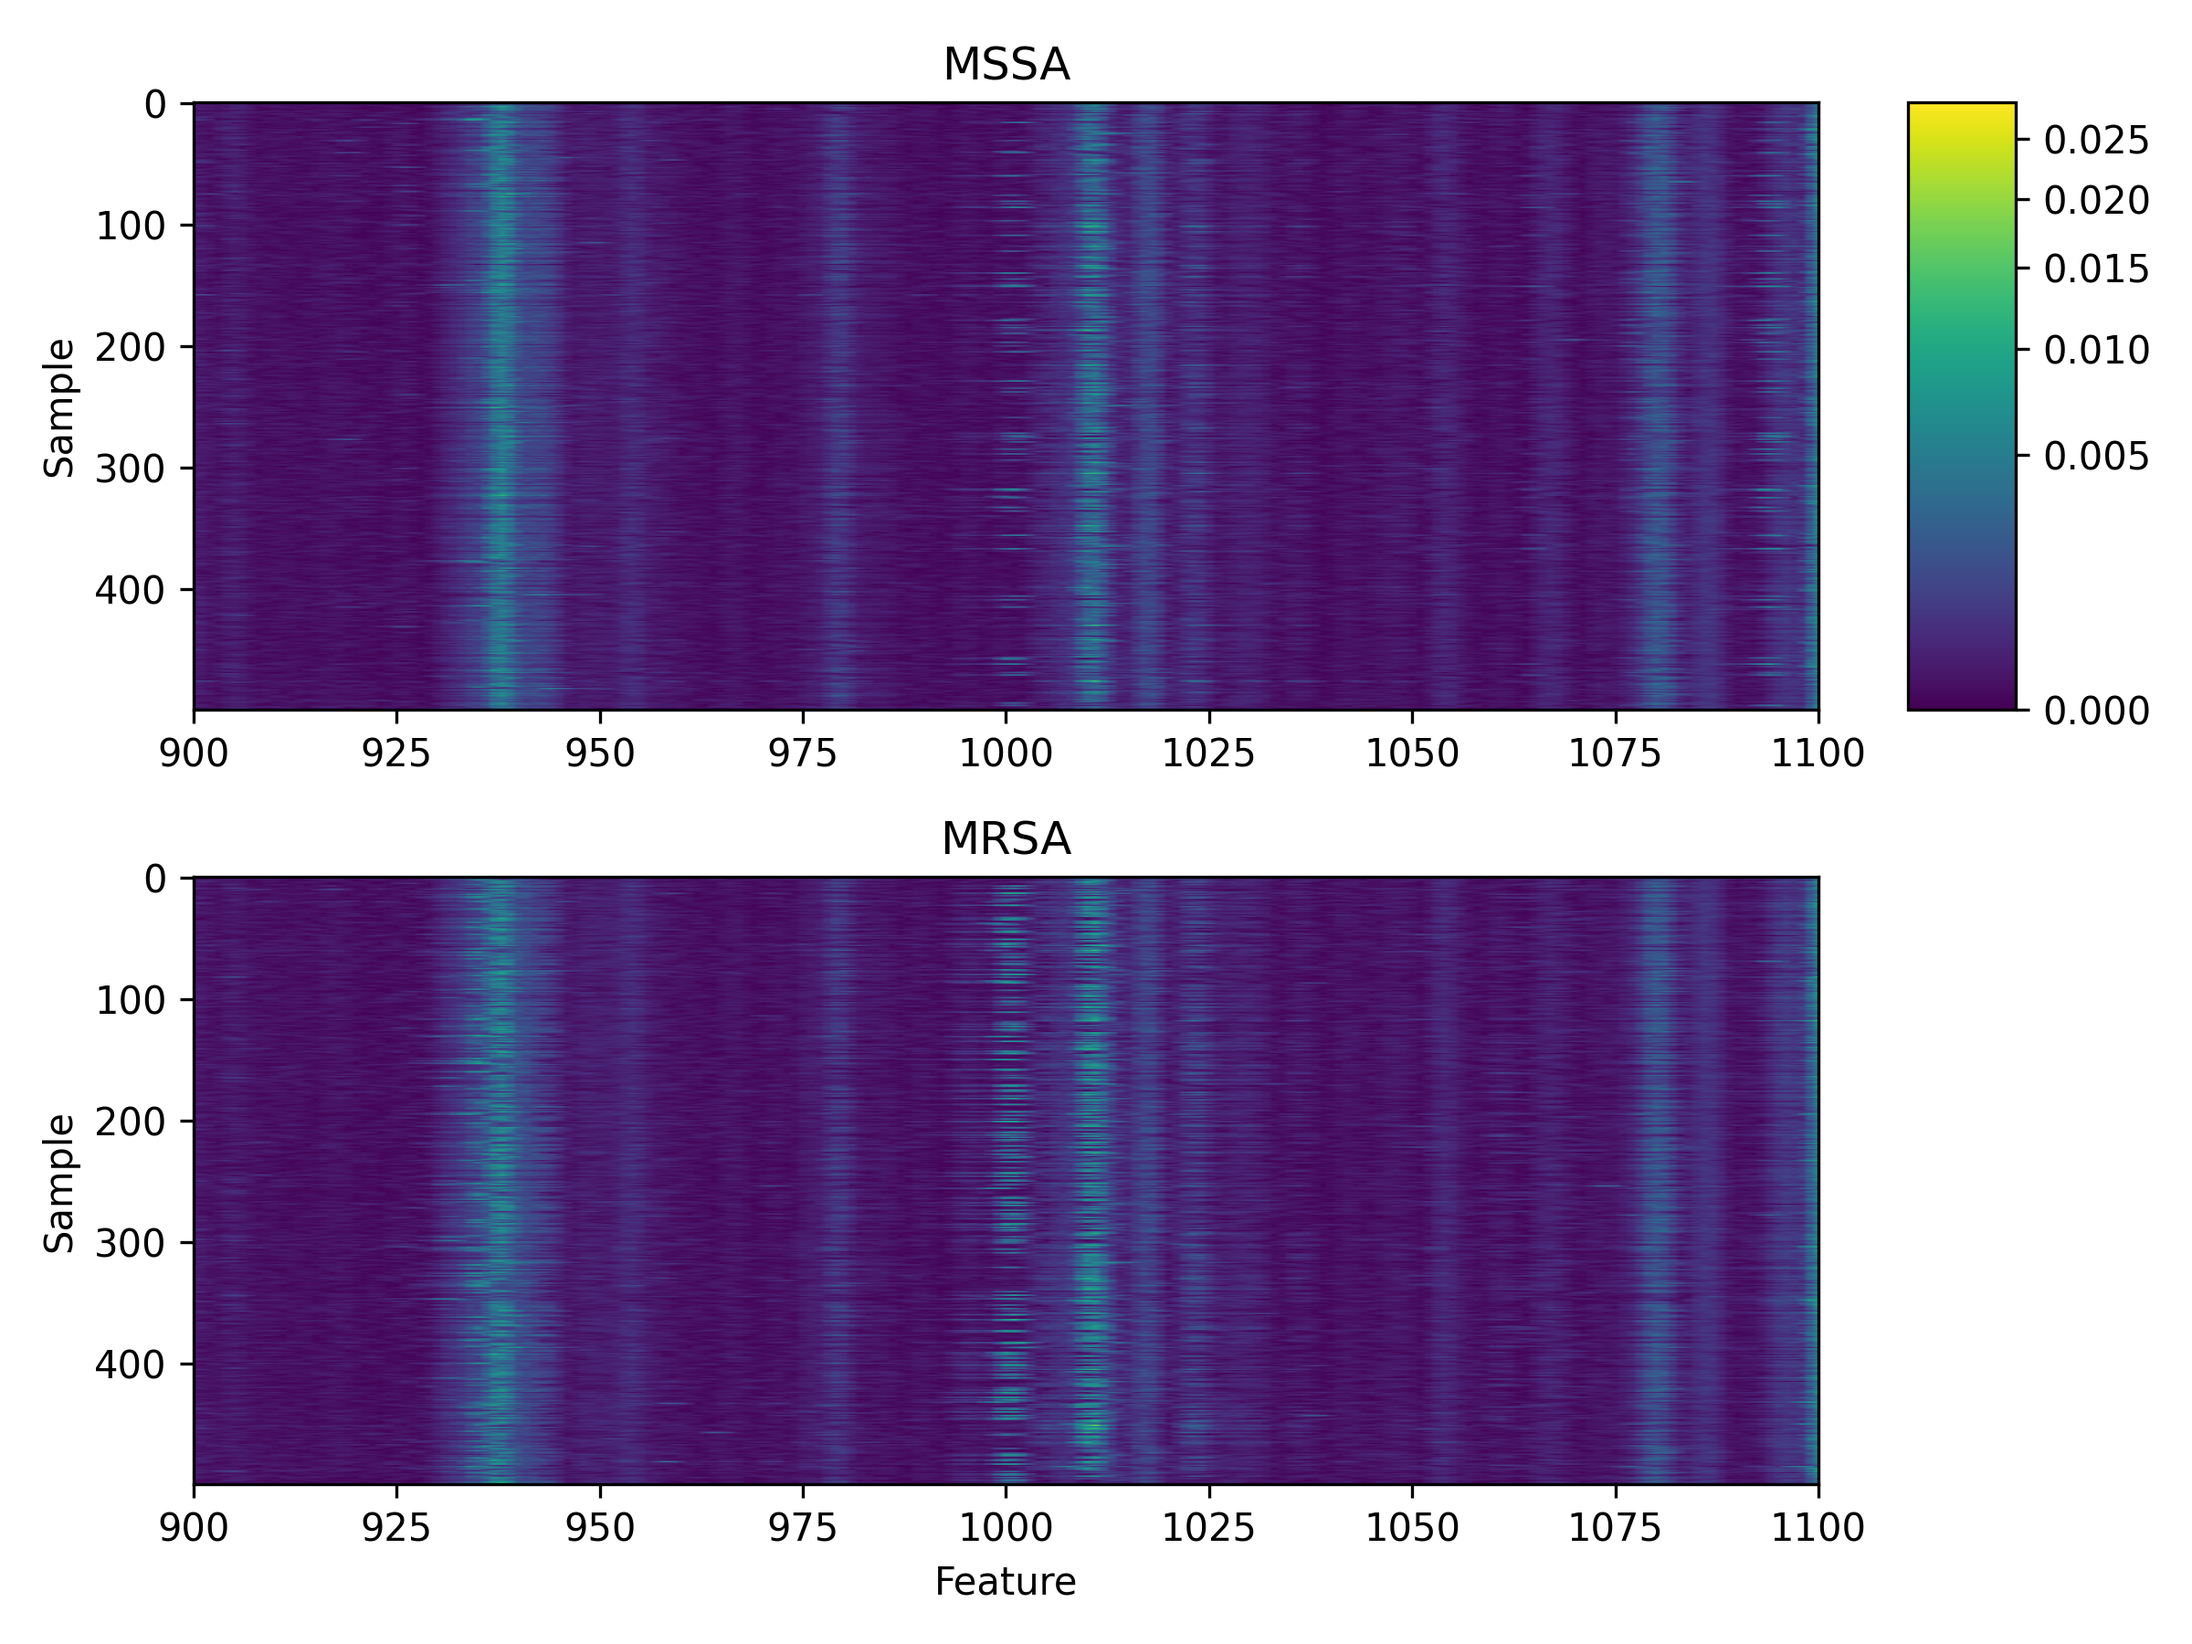
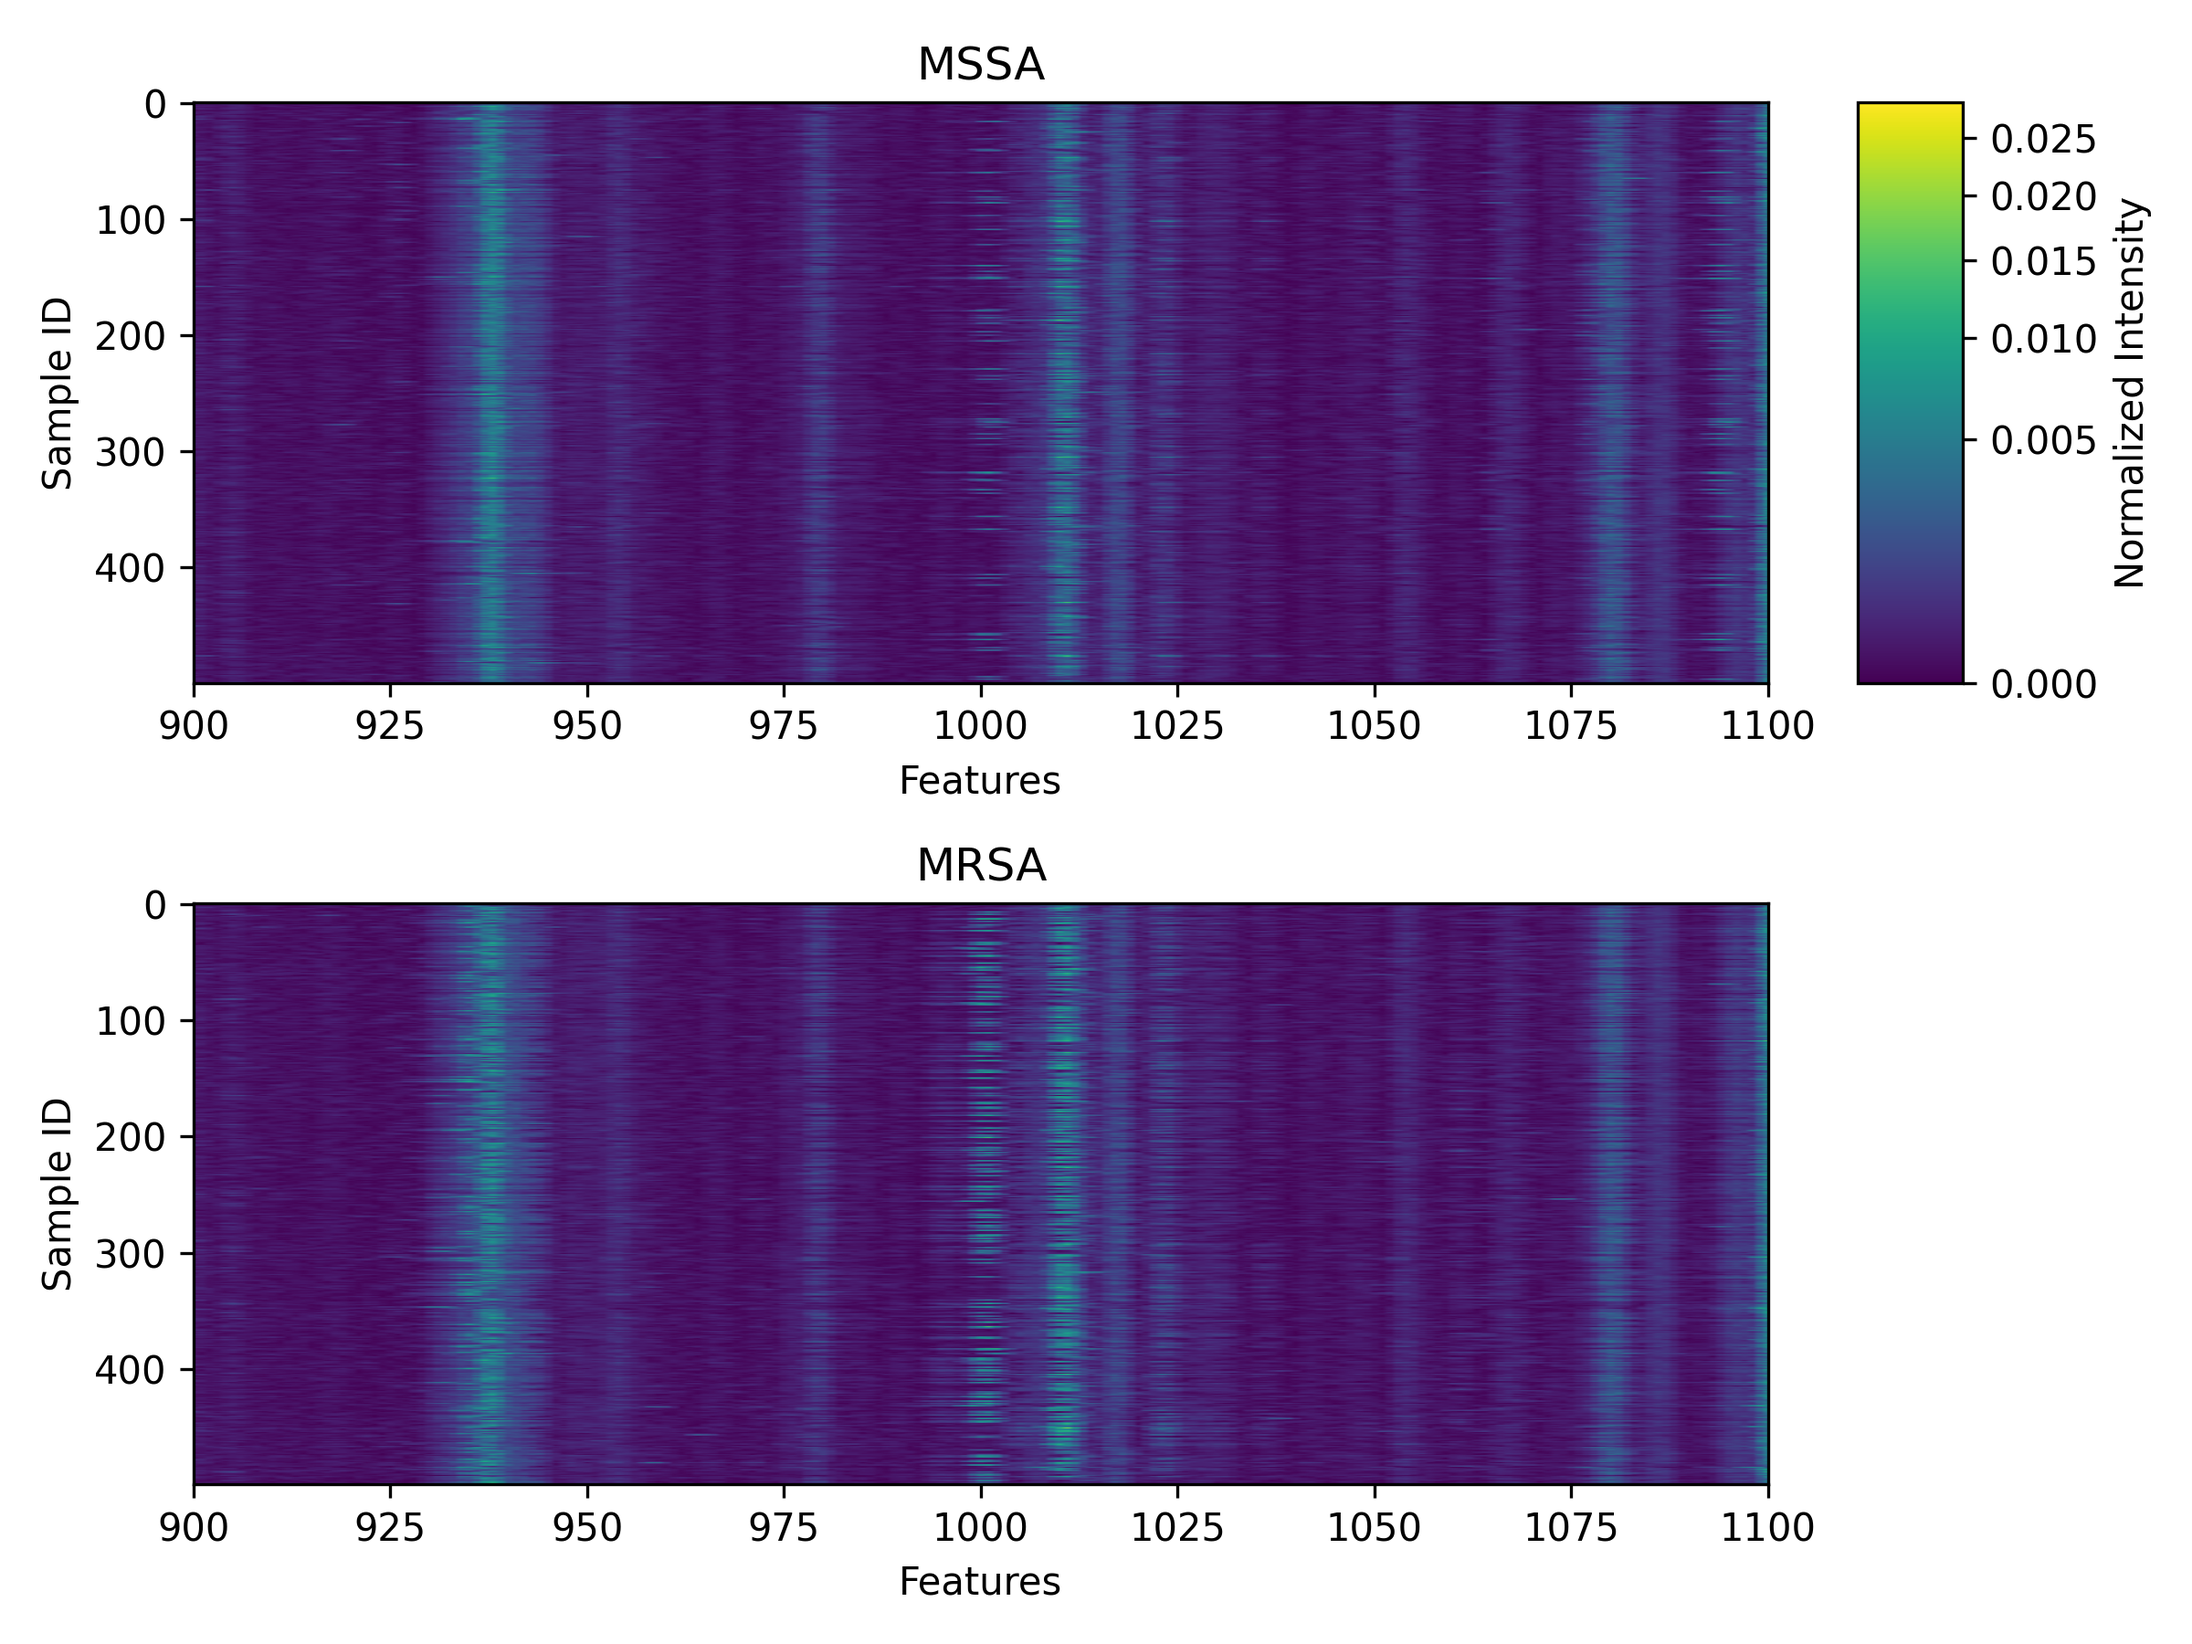
Update pseudogel plots with labels

diff --git a/lib/analyses/pseudogel.py b/lib/analyses/pseudogel.py
@@ -15,6 +15,7 @@ def analyze_pseudogel(
     random_state=812,
 ):
     path = path.get_path(f"pseudogel_{center}.png")
+    print(f"Pseudogel plot saved to {path}")
 
     plot_min = center - 100
     plot_max = center + 100
@@ -35,19 +36,20 @@ def analyze_pseudogel(
     ax2 = plt.subplot(gs[0])
     ax2.set_xlim(plot_min, plot_max)
     ax2.set_title("MSSA")
-    ax2.set_ylabel("Sample")
+    ax2.set_xlabel("Features")
+    ax2.set_ylabel("Sample ID")
     p2 = ax2.imshow(
         sensitive_samples, aspect="auto", norm=matplotlib.colors.PowerNorm(0.5)
     )
 
     colorAx = plt.subplot(gs[1])
-    cb = plt.colorbar(p2, cax=colorAx)
+    cb = plt.colorbar(p2, cax=colorAx, label="Normalized Intensity")
 
     ax3 = plt.subplot(gs[2], sharex=ax2)
     ax3.set_xlim(plot_min, plot_max)
     ax3.set_title("MRSA")
-    ax3.set_xlabel("Feature")
-    ax3.set_ylabel("Sample")
+    ax3.set_xlabel("Features")
+    ax3.set_ylabel("Sample ID")
     p3 = ax3.imshow(
         resistant_samples, aspect="auto", norm=matplotlib.colors.PowerNorm(0.5)
     )

diff --git a/scripts/analyze.py b/scripts/analyze.py
@@ -1,8 +1,8 @@
 import numpy as np
 from lib.analyses.pseudogel import analyze_pseudogel
-from lib.analyses.scatter import aggregate_intensities, analyze_scatter
+from lib.analyses.scatter import analyze_scatter
 from lib.analyses.shap import analyze_all_shap
-from lib.data import load_spectra, train_val_split
+from lib.data import aggregate_intensities, load_spectra, train_val_split
 from lib.models.ensemble import Ensemble
 from lib.models.nn import NN
 from lib.models.sk import LGBM, LR, RF, SVM_RBF, XGB, CatBoost, SVM_Linear
